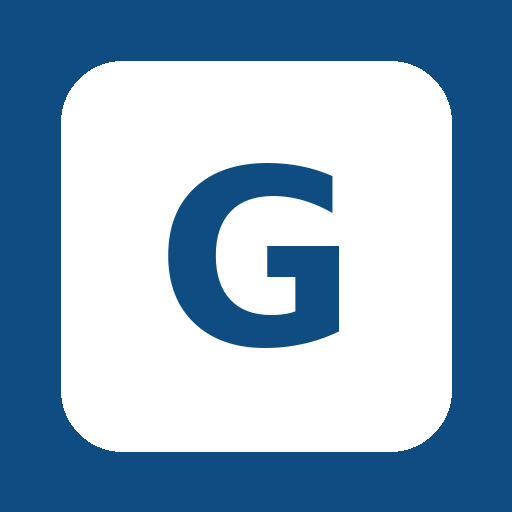
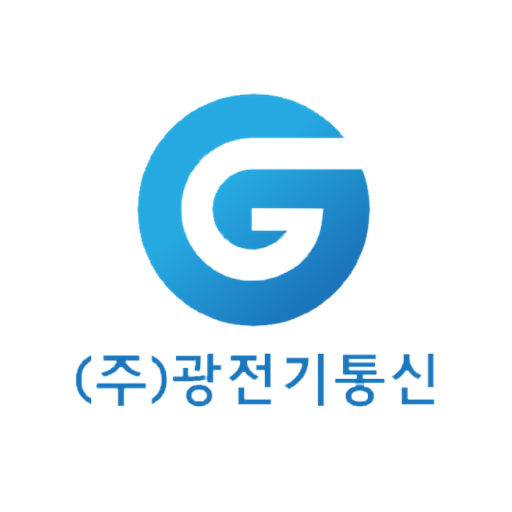
Add files via upload

diff --git a/index.html b/index.html
@@ -4,7 +4,7 @@
 <head>
 <meta charset="utf-8"/>
 <meta content="width=device-width, initial-scale=1.0" name="viewport"/>
-<title>광전기통신 영업지원 시스템 v0.0.12</title>
+<title>광전기통신 영업지원 시스템 v0.0.14</title>
 <style>
     :root {
       --bg: #f3f6fb;
@@ -903,6 +903,19 @@
       text-align: right;
       font-variant-numeric: tabular-nums;
       font-weight: 700;
+      white-space: nowrap;
+    }
+
+    .price-change-mark {
+      display: inline-flex;
+      align-items: center;
+      margin-right: 5px;
+      color: #d94841;
+      font-size: 11px;
+      font-weight: 900;
+      line-height: 1;
+      letter-spacing: -0.2px;
+      vertical-align: 1px;
     }
 
     .spec-table tbody tr:nth-child(even) {
@@ -2131,7 +2144,7 @@ body:not(.auth-locked) .bottom-nav{display:grid}
 }
 
 
-/* v0.0.12: 로그인 액션 · 모바일 뒤로가기 · 화면 이력 · 전환 효과 */
+/* v0.0.13: 로그인 액션 · 모바일 뒤로가기 · 화면 이력 · 전환 효과 */
 .auth-version-box{display:grid;grid-template-columns:1fr 1fr;gap:8px;margin:14px 0 4px}
 .auth-version-item{padding:10px 8px;border:1px solid #dce6f2;border-radius:10px;background:#f7faff;text-align:center}
 .auth-version-item strong{display:block;font-size:12px;color:#174f91;margin-bottom:3px}.auth-version-item span{font-size:11px;color:#667085}
@@ -2147,7 +2160,7 @@ body:not(.auth-locked) .bottom-nav{display:grid}
 
 
 
-/* v0.0.12: 메인 카드 모바일 레이아웃 확정 패치
+/* v0.0.13: 메인 카드 모바일 레이아웃 확정 패치
    - 제목 + 한 줄 요약
    - iOS Safari/Android Chrome에서 세로 글자 깨짐 방지
    - 카드 장식 최소화 및 전체 터치 영역 유지 */
@@ -2294,6 +2307,7 @@ body:not(.auth-locked) .bottom-nav{display:grid}
 <link href="./manifest.webmanifest" rel="manifest"/>
 <link href="./icons/icon-192.png" rel="icon" sizes="192x192" type="image/png"/>
 <link href="./icons/apple-touch-icon.png" rel="apple-touch-icon"/>
+<link rel="icon" href="favicon.png">
 </head>
 <body class="auth-locked">
 <section aria-label="사내 사용자 로그인" class="auth-screen" id="authScreen">
@@ -2311,7 +2325,7 @@ body:not(.auth-locked) .bottom-nav{display:grid}
 <p aria-live="polite" class="auth-status" id="authStatus"></p>
 <p aria-live="polite" class="auth-error" id="authError" role="alert"></p>
 <div class="auth-version-box" aria-label="시스템 정보">
-  <div class="auth-version-item"><strong>현재 버전</strong><span>v0.0.12</span></div>
+  <div class="auth-version-item"><strong>현재 버전</strong><span>v0.0.14</span></div>
   <div class="auth-version-item"><strong>접속 상태</strong><span id="networkStatus">확인 중</span></div>
 </div>
 <div class="auth-actions">
@@ -3191,6 +3205,34 @@ body:not(.auth-locked) .bottom-nav{display:grid}
       return `${amount.toLocaleString("ko-KR")}원`;
     }
 
+    function formatAdjustmentRate(rate) {
+      const numericRate = Number(rate);
+      if (!Number.isFinite(numericRate)) return "";
+      return Number.isInteger(numericRate) ? String(numericRate) : numericRate.toFixed(1).replace(/\.0$/, "");
+    }
+
+    function renderPriceCell(cell, value) {
+      cell.className = "price-cell";
+      cell.textContent = "";
+
+      if (value === null || value === undefined || value === "" || !Number.isFinite(Number(value))) {
+        cell.textContent = "미등록";
+        return;
+      }
+
+      if (priceAdjustmentRate > 0) {
+        const mark = document.createElement("span");
+        mark.className = "price-change-mark";
+        mark.textContent = `▲${formatAdjustmentRate(priceAdjustmentRate)}%`;
+        mark.setAttribute("aria-label", `기준단가 대비 ${formatAdjustmentRate(priceAdjustmentRate)}퍼센트 인상`);
+        cell.appendChild(mark);
+      }
+
+      const priceText = document.createElement("span");
+      priceText.textContent = formatWon(value, true);
+      cell.appendChild(priceText);
+    }
+
     function getActiveEnclosureSelection() {
       return productSelect.value || relatedMaterialSelect.value;
     }
@@ -3341,8 +3383,11 @@ body:not(.auth-locked) .bottom-nav{display:grid}
         columns.forEach((column) => {
           const cell = document.createElement("td");
           const isPrice = !["P수", "회선수", "규격", "가로", "세로", "깊이"].includes(column);
-          cell.textContent = isPrice ? formatWon(item[column], true) : item[column];
-          if (isPrice) cell.className = "price-cell";
+          if (isPrice) {
+            renderPriceCell(cell, item[column]);
+          } else {
+            cell.textContent = item[column];
+          }
           row.appendChild(cell);
         });
         specTableBody.appendChild(row);
@@ -3738,11 +3783,11 @@ window.rackImageMap['서버 랙'] = 'assets/server_rack.png'; // V90_SERVER_RACK
     else if(type==="drawing-share"){title.textContent="손도면 공유";button("PNG 파일 공유",()=>shareDrawingFile("png"));button("PDF 파일 공유",()=>shareDrawingFile("pdf"));button("이메일로 내용 공유",()=>location.href="mailto:?subject="+encodeURIComponent("광전기통신 손도면")+"&body="+encodeURIComponent("광전기통신 손도면 파일을 첨부합니다."));button("문자메시지로 내용 공유",()=>location.href="sms:?&body="+encodeURIComponent("광전기통신 손도면 파일을 공유합니다."));button("카카오톡으로 공유",()=>shareDrawingFile("png"));help("카카오톡 버튼은 모바일·지원 브라우저의 시스템 공유창을 열며, 목록에서 카카오톡을 선택합니다. 지원하지 않는 PC에서는 파일을 먼저 저장합니다.")}
   };
   async function buildProductCard(kind){
-    const isRack=kind==="rack",select=document.getElementById(isRack?"rackProductSelect":"materialItemSelect"),group=document.getElementById("materialGroupSelect"),img=document.getElementById(isRack?"rackProductImage":"materialProductImage"),name=select?.value||"선택된 제품 없음",sub=isRack?"랙 파트":((group?.value?group.value+" · ":"")+"자재 파트"),canvas=document.createElement("canvas");canvas.width=1200;canvas.height=900;const ctx=canvas.getContext("2d");ctx.fillStyle="#fff";ctx.fillRect(0,0,1200,900);ctx.fillStyle="#172033";ctx.font="700 46px sans-serif";ctx.fillText("광전기통신 제품정보",60,72);ctx.fillStyle="#174f91";ctx.font="700 34px sans-serif";ctx.fillText(name,60,130);ctx.fillStyle="#667085";ctx.font="25px sans-serif";ctx.fillText(sub,60,172);ctx.strokeStyle="#d3dce8";ctx.strokeRect(60,210,1080,600);
+    const isRack=kind==="rack",select=document.getElementById(isRack?"rackProductSelect":"materialItemSelect"),group=document.getElementById("materialGroupSelect"),img=document.getElementById(isRack?"rackProductImage":"materialProductImage"),name=select?.value||"선택된 제품 없음",sub=isRack?"랙 파트":((group?.value?group.value+" · ":"")+"자재 파트"),canvas=document.createElement("canvas");canvas.width=1200;canvas.height=900;const ctx=canvas.getContext("2d");ctx.fillStyle="#fff";ctx.fillRect(0,0,1200,900);ctx.fillStyle="#172033";ctx.font="700 46px sans-serif";ctx.fillText("제품정보",60,72);ctx.fillStyle="#174f91";ctx.font="700 34px sans-serif";ctx.fillText(name,60,130);ctx.fillStyle="#667085";ctx.font="25px sans-serif";ctx.fillText(sub,60,172);ctx.strokeStyle="#d3dce8";ctx.strokeRect(60,210,1080,600);
     if(img&&img.src&&img.style.display!=="none"&&img.complete&&img.naturalWidth){const scale=Math.min(1000/img.naturalWidth,520/img.naturalHeight),w=img.naturalWidth*scale,h=img.naturalHeight*scale;ctx.drawImage(img,600-w/2,250+(520-h)/2,w,h)}else{ctx.fillStyle="#f4f7fb";ctx.fillRect(80,230,1040,560);ctx.fillStyle="#8a97a8";ctx.font="700 30px sans-serif";ctx.textAlign="center";ctx.fillText("등록된 제품 이미지가 없습니다.",600,515);ctx.textAlign="left"}
     ctx.fillStyle="#7a8797";ctx.font="20px sans-serif";ctx.fillText(new Date().toLocaleString("ko-KR"),860,860);const blob=await new Promise((res,rej)=>canvas.toBlob(b=>b?res(b):rej(new Error("이미지 생성 실패")),"image/png"));return{file:new File([blob],`광전기통신_${name.replace(/[\\/:*?\"<>|]/g,"_")}.png`,{type:"image/png"}),name}
   }
-  async function shareProduct(kind,channel){try{const {file,name}=await buildProductCard(kind),text=`광전기통신 제품정보 - ${name}`;if(channel==="email"){downloadBlob(file,file.name);location.href="mailto:?subject="+encodeURIComponent(text)+"&body="+encodeURIComponent("제품 이미지 파일을 저장했습니다. 메일에 첨부해 주세요.");return}if(channel==="sms"){downloadBlob(file,file.name);location.href="sms:?&body="+encodeURIComponent(text+" (저장된 이미지 파일을 첨부해 주세요.)");return}if(navigator.share&&(!navigator.canShare||navigator.canShare({files:[file]}))){await navigator.share({title:text,text,files:[file]})}else{downloadBlob(file,file.name);alert("직접 공유를 지원하지 않아 제품 이미지를 저장했습니다. 카카오톡이나 다른 앱에서 파일을 첨부해 주세요.")}}catch(e){if(e&&e.name!=="AbortError"){console.error(e);alert("제품 공유 준비 중 오류가 발생했습니다.")}}}
+  async function shareProduct(kind,channel){try{const {file,name}=await buildProductCard(kind),text=`제품정보 - ${name}`;if(channel==="email"){downloadBlob(file,file.name);location.href="mailto:?subject="+encodeURIComponent(text)+"&body="+encodeURIComponent("제품 이미지 파일을 저장했습니다. 메일에 첨부해 주세요.");return}if(channel==="sms"){downloadBlob(file,file.name);location.href="sms:?&body="+encodeURIComponent(text+" (저장된 이미지 파일을 첨부해 주세요.)");return}if(navigator.share&&(!navigator.canShare||navigator.canShare({files:[file]}))){await navigator.share({title:text,text,files:[file]})}else{downloadBlob(file,file.name);alert("직접 공유를 지원하지 않아 제품 이미지를 저장했습니다. 카카오톡이나 다른 앱에서 파일을 첨부해 주세요.")}}catch(e){if(e&&e.name!=="AbortError"){console.error(e);alert("제품 공유 준비 중 오류가 발생했습니다.")}}}
   function openProduct(kind){context=kind;body.innerHTML="";title.textContent=kind==="rack"?"랙 제품 공유":"자재 제품 공유";modal.classList.add("open");button("시스템 공유 · 카카오톡",()=>shareProduct(kind,"system"));button("이메일로 공유",()=>shareProduct(kind,"email"));button("문자메시지로 공유",()=>shareProduct(kind,"sms"));help("모바일에서는 이미지 파일이 포함된 시스템 공유창이 열립니다. 카카오톡을 선택할 수 있습니다. PC에서 파일 공유가 지원되지 않으면 이미지가 먼저 저장됩니다.")}
   document.getElementById("rackShareBtn")?.addEventListener("click",()=>openProduct("rack"));document.getElementById("materialShareBtn")?.addEventListener("click",()=>openProduct("material"));close.onclick=hide;modal.addEventListener("click",e=>{if(e.target===modal)hide()});document.addEventListener("keydown",e=>{if(e.key==="Escape")hide()});
 })();

diff --git a/service-worker.js b/service-worker.js
@@ -1,4 +1,4 @@
-const CACHE_NAME = "gwang-v0.0.12";
+const CACHE_NAME = "gwang-v0.0.14";
 const APP_ASSETS = [
   './',
   './index.html',

diff --git a/README.md b/README.md
@@ -1,10 +1,20 @@
 # 광전기통신 영업지원시스템
 
 ## 현재 버전
-v0.0.12
+v0.0.14
 
 ## 배포
 이 폴더의 전체 파일을 GitHub 저장소 루트에 업로드하면 GitHub Pages에서 정적 웹앱으로 사용할 수 있습니다.
+
+
+## v0.0.14 변경사항
+- 기존 단가 글꼴·크기·정렬·원화 표시 방식은 유지하고, 조정률이 0%보다 클 때 단가 앞에 `▲10%`, `▲7.5%` 형태의 변동률 마크를 표시합니다.
+- 조정률 0%에서는 변동률 마크를 표시하지 않습니다.
+- 단가가 비어 있거나 미등록인 항목에는 변동률 마크를 표시하지 않고 기존처럼 `미등록`으로 표시합니다.
+- 빠른 조정 버튼과 직접 입력 조정률 변경 시 전체 규격표의 변동률 마크와 조정 단가가 즉시 갱신됩니다.
+- 공유 이미지의 대제목을 `제품정보`로 유지합니다.
+- 브라우저 파비콘과 모바일 PWA 설치 아이콘에 회사 로고를 적용한 구성을 유지합니다.
+- 서비스 워커 캐시 버전을 v0.0.14로 갱신했습니다.
 
 ## v0.0.12 변경사항
 - v0.0.9를 기준으로 v0.0.10 가격조정 화면 유지 버그 수정을 통합했습니다.
